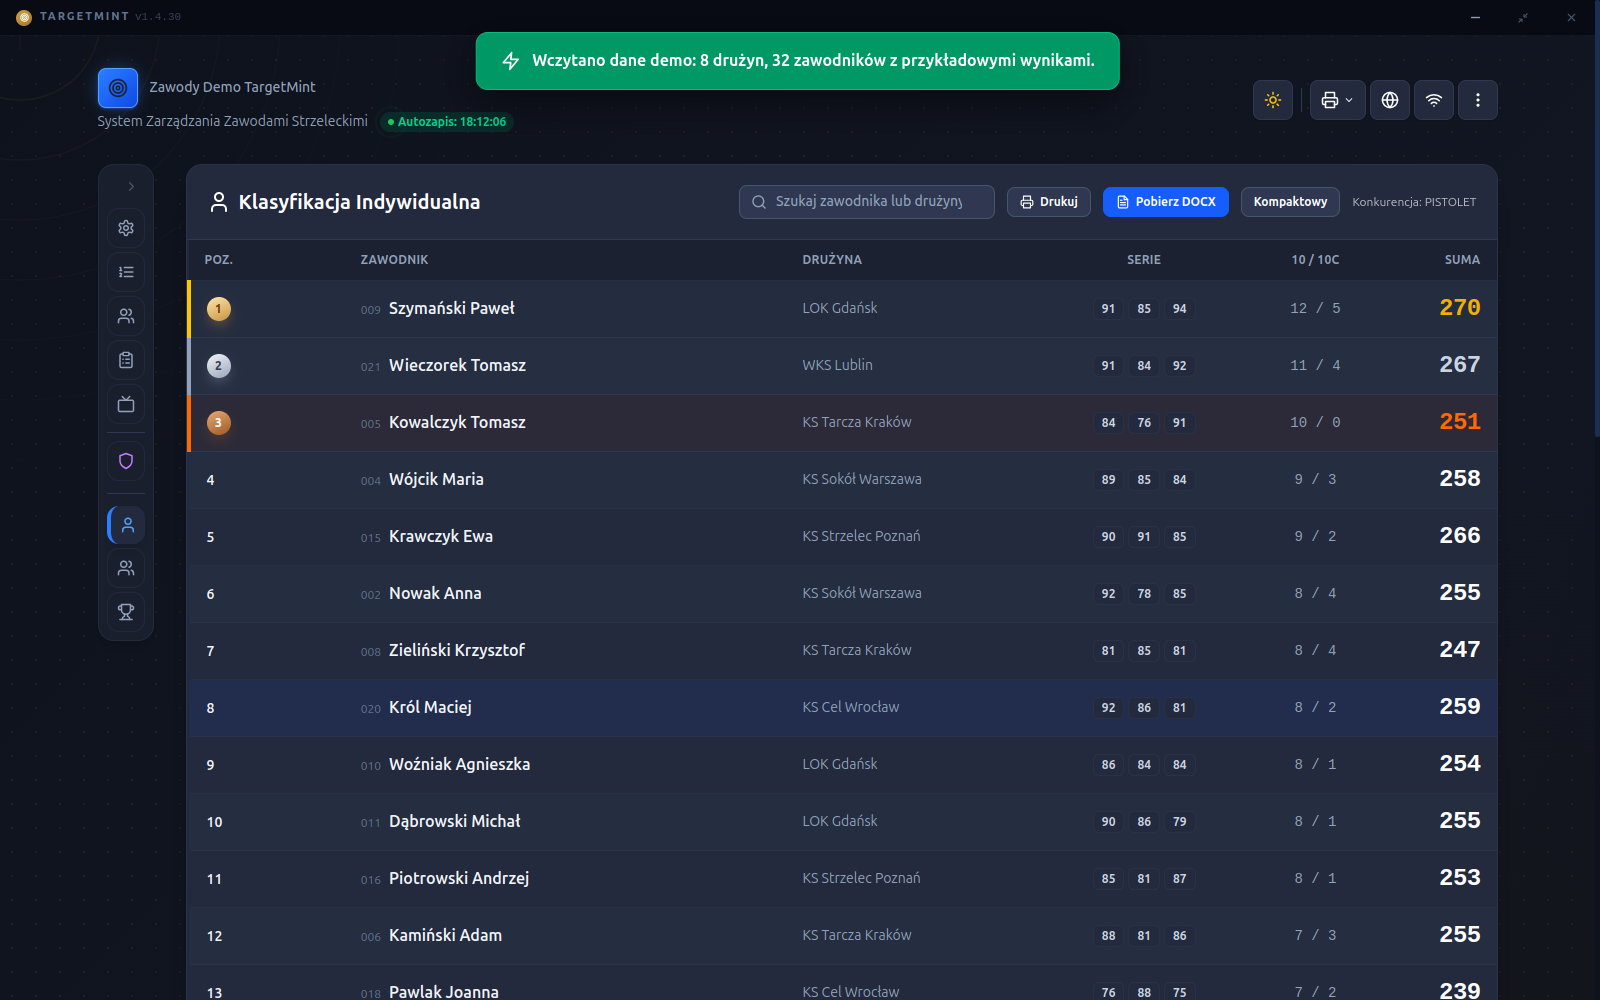
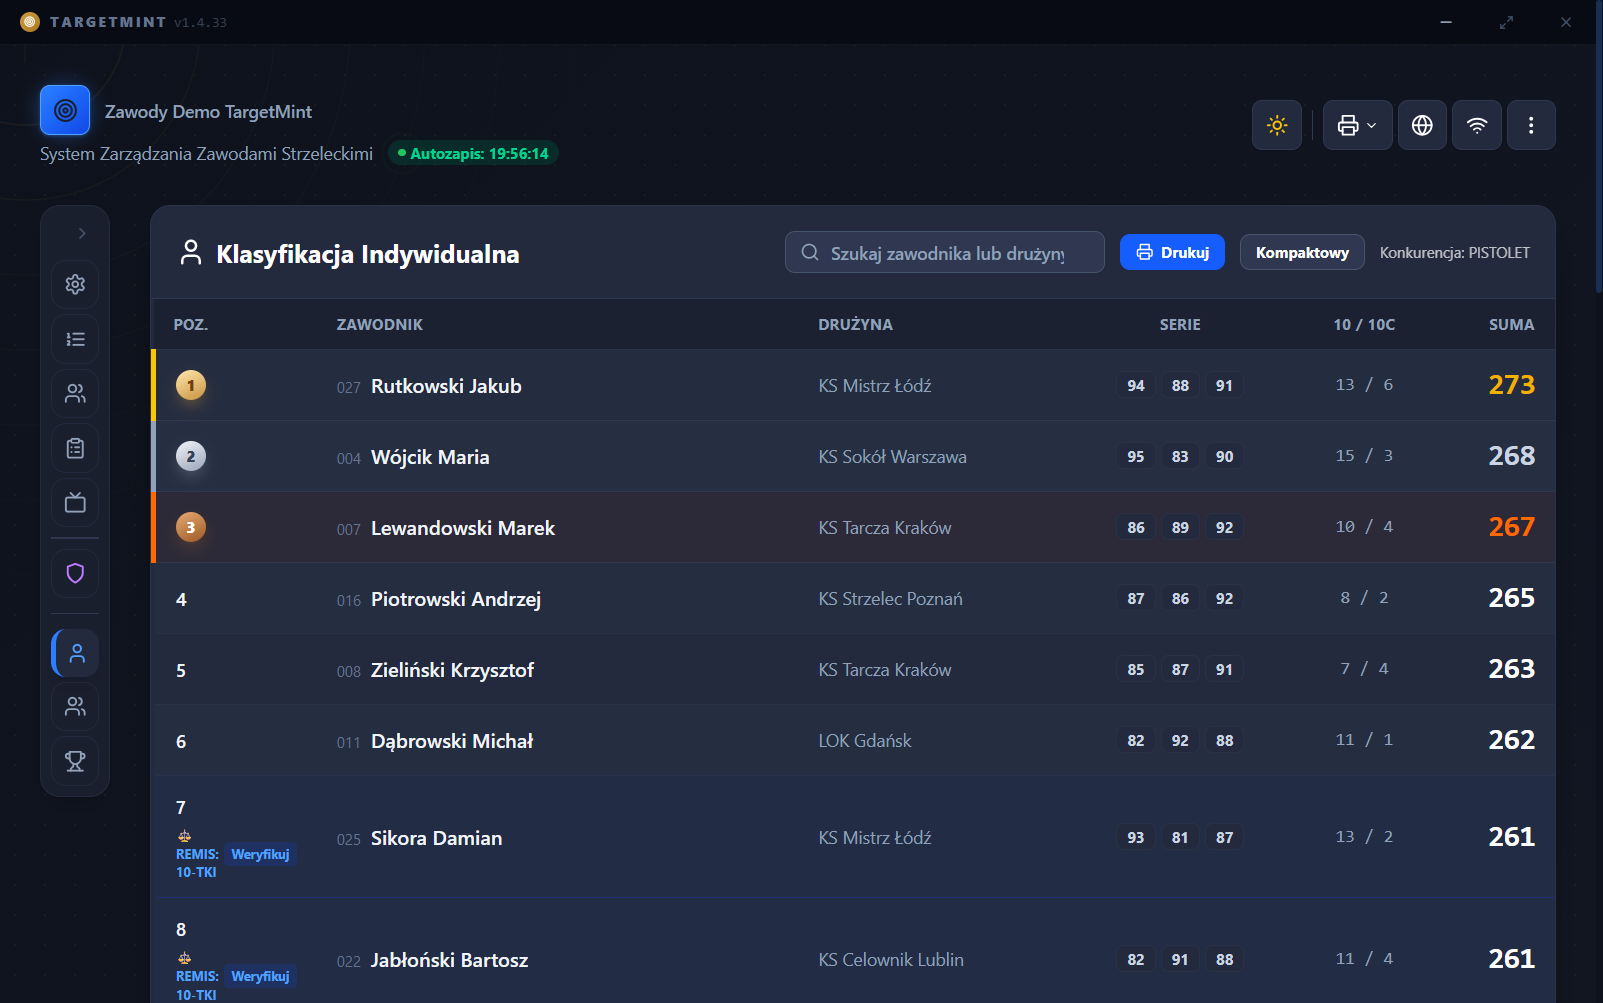
content: uczciwsza treść (offline vs sesja na żywo, status Linuksa, SmartScreen), poprawione zrzuty rankingu (TIE-001), linki do dokumentów prawnych
Zrzuty klasyfikacji (04/05/06) regenerowane na naprawionym kodzie (fix TIE-001,
14.09.2026) — poprzednie pokazywały ranking demo posortowany po liczbie dziesiątek
zamiast po sumie punktów (widoczny błąd, np. 3. miejsce z niższym wynikiem niż 4.).

diff --git a/index.html b/index.html
@@ -117,8 +117,9 @@ footer .wrap{display:flex;justify-content:space-between;flex-wrap:wrap;gap:10px}
     <div class="eyebrow">Wczesny dostęp — testowanie z pierwszymi klubami</div>
     <h1 class="title">Zawody strzeleckie, policzone offline, na czas.</h1>
     <p class="lede">TargetMint to desktopowa aplikacja do prowadzenia zawodów strzeleckich (pistolet/karabinek) —
-    działa w pełni bez internetu na strzelnicy, a mimo to pozwala kilku sędziom wprowadzać wyniki
-    jednocześnie i pokazuje ranking na żywo na rzutniku. Na koniec — oficjalne dokumenty gotowe do podpisu.</p>
+    wpisywanie wyników, ranking na żywo na rzutniku i oficjalne dokumenty gotowe do podpisu działają
+    w pełni bez internetu na strzelnicy. Gdy internet jest dostępny, kilku sędziów może wprowadzać
+    wyniki jednocześnie z osobnych stanowisk.</p>
     <div class="cta-row">
       <a class="btn primary" href="https://discord.gg/FTkRgbdH2Z" target="_blank" rel="noopener">Dołącz do Discorda</a>
       <a class="btn ghost" href="#pobierz">Zobacz jak pobrać</a>
@@ -197,16 +198,24 @@ footer .wrap{display:flex;justify-content:space-between;flex-wrap:wrap;gap:10px}
     <div class="platforms">
       <div class="platform">
         <h3>🪟 Windows</h3>
+        <p>Wymagania: Windows 10 lub 11, 64-bit.</p>
         <p>Uruchom instalator <code>.exe</code> i postępuj zgodnie z kreatorem.</p>
+        <p style="margin-top:12px">Aplikacja nie jest jeszcze podpisana certyfikatem (wczesny dostęp) —
+        Windows SmartScreen pokaże ostrzeżenie. Kliknij <strong>„Więcej informacji"</strong>, a potem
+        <strong>„Uruchom mimo to"</strong>.</p>
+        <a class="btn primary" style="margin-top:16px" href="https://github.com/pawel-key/TargetMint-dist/releases/latest" target="_blank" rel="noopener">Pobierz dla Windows →</a>
       </div>
       <div class="platform">
         <h3>🐧 Linux</h3>
+        <p><span class="status-badge" style="background:var(--accent-bg);color:var(--accent-strong)">⚠ obecnie wersja 1.4.30</span></p>
+        <p>Build Linuksa wymaga osobnego procesu (poza tym używanym dziś do Windows) — nowsza wersja
+        (aktualnie 1.4.33 na Windows) trafi na Linuksa wkrótce. Funkcjonalnie to ten sam program.</p>
         <p>Pakiet <code>.deb</code>:</p>
         <code>sudo dpkg -i nazwa-pliku.deb</code>
         <p style="margin-top:12px">Albo uruchom <code>.AppImage</code> bezpośrednio — nie wymaga instalacji.</p>
+        <a class="btn ghost" style="margin-top:16px" href="https://github.com/pawel-key/TargetMint-dist/releases/tag/v1.4.30" target="_blank" rel="noopener">Pobierz dla Linuksa (v1.4.30) →</a>
       </div>
     </div>
-    <a class="btn primary" href="https://github.com/pawel-key/TargetMint-dist/releases/latest" target="_blank" rel="noopener">Pobierz najnowszą wersję →</a>
   </div>
 </section>
 
@@ -231,7 +240,8 @@ footer .wrap{display:flex;justify-content:space-between;flex-wrap:wrap;gap:10px}
       <div class="faq-item">
         <h3>Który plik pobrać na Linuksie?</h3>
         <p><code>.AppImage</code> (uniwersalny, działa na większości dystrybucji) albo <code>.deb</code>
-        (Debian/Ubuntu/Mint).</p>
+        (Debian/Ubuntu/Mint). Build Linuksa jest chwilowo w tyle za Windows (dziś 1.4.30 vs 1.4.33) —
+        nadrobimy to wkrótce.</p>
       </div>
       <div class="faq-item">
         <h3>Jak aktualizować program?</h3>
@@ -261,7 +271,10 @@ footer .wrap{display:flex;justify-content:space-between;flex-wrap:wrap;gap:10px}
 
 <footer>
   <div class="wrap">
-    <span>© 2026 TargetMint · Oprogramowanie własnościowe</span>
+    <span>© 2026 TargetMint · Oprogramowanie własnościowe ·
+      <a href="https://github.com/pawel-key/TargetMint/blob/main/EULA.md" target="_blank" rel="noopener">Umowa licencyjna</a> ·
+      <a href="https://github.com/pawel-key/TargetMint/blob/main/POLITYKA-PRYWATNOSCI.md" target="_blank" rel="noopener">Polityka prywatności</a>
+    </span>
     <span>Kontakt: <a href="mailto:TargetMint@protonmail.com">TargetMint@protonmail.com</a></span>
   </div>
 </footer>
